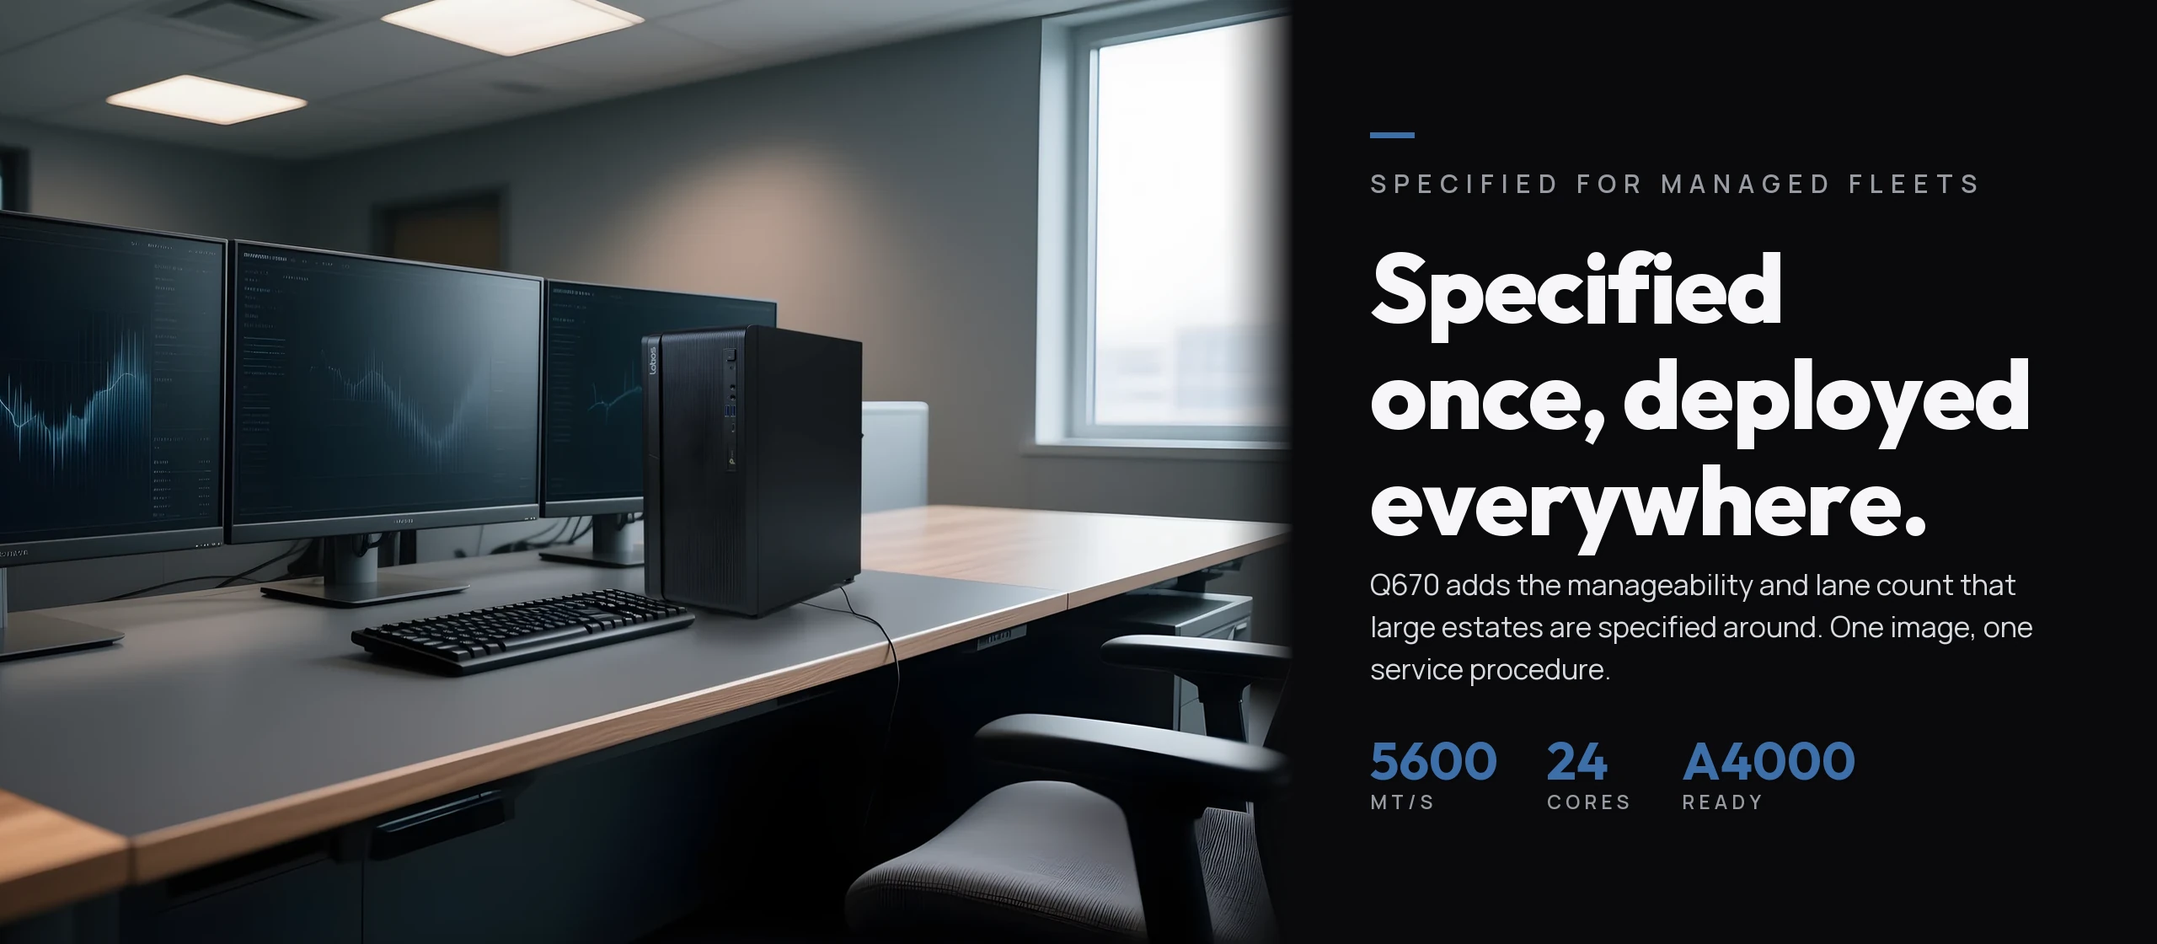
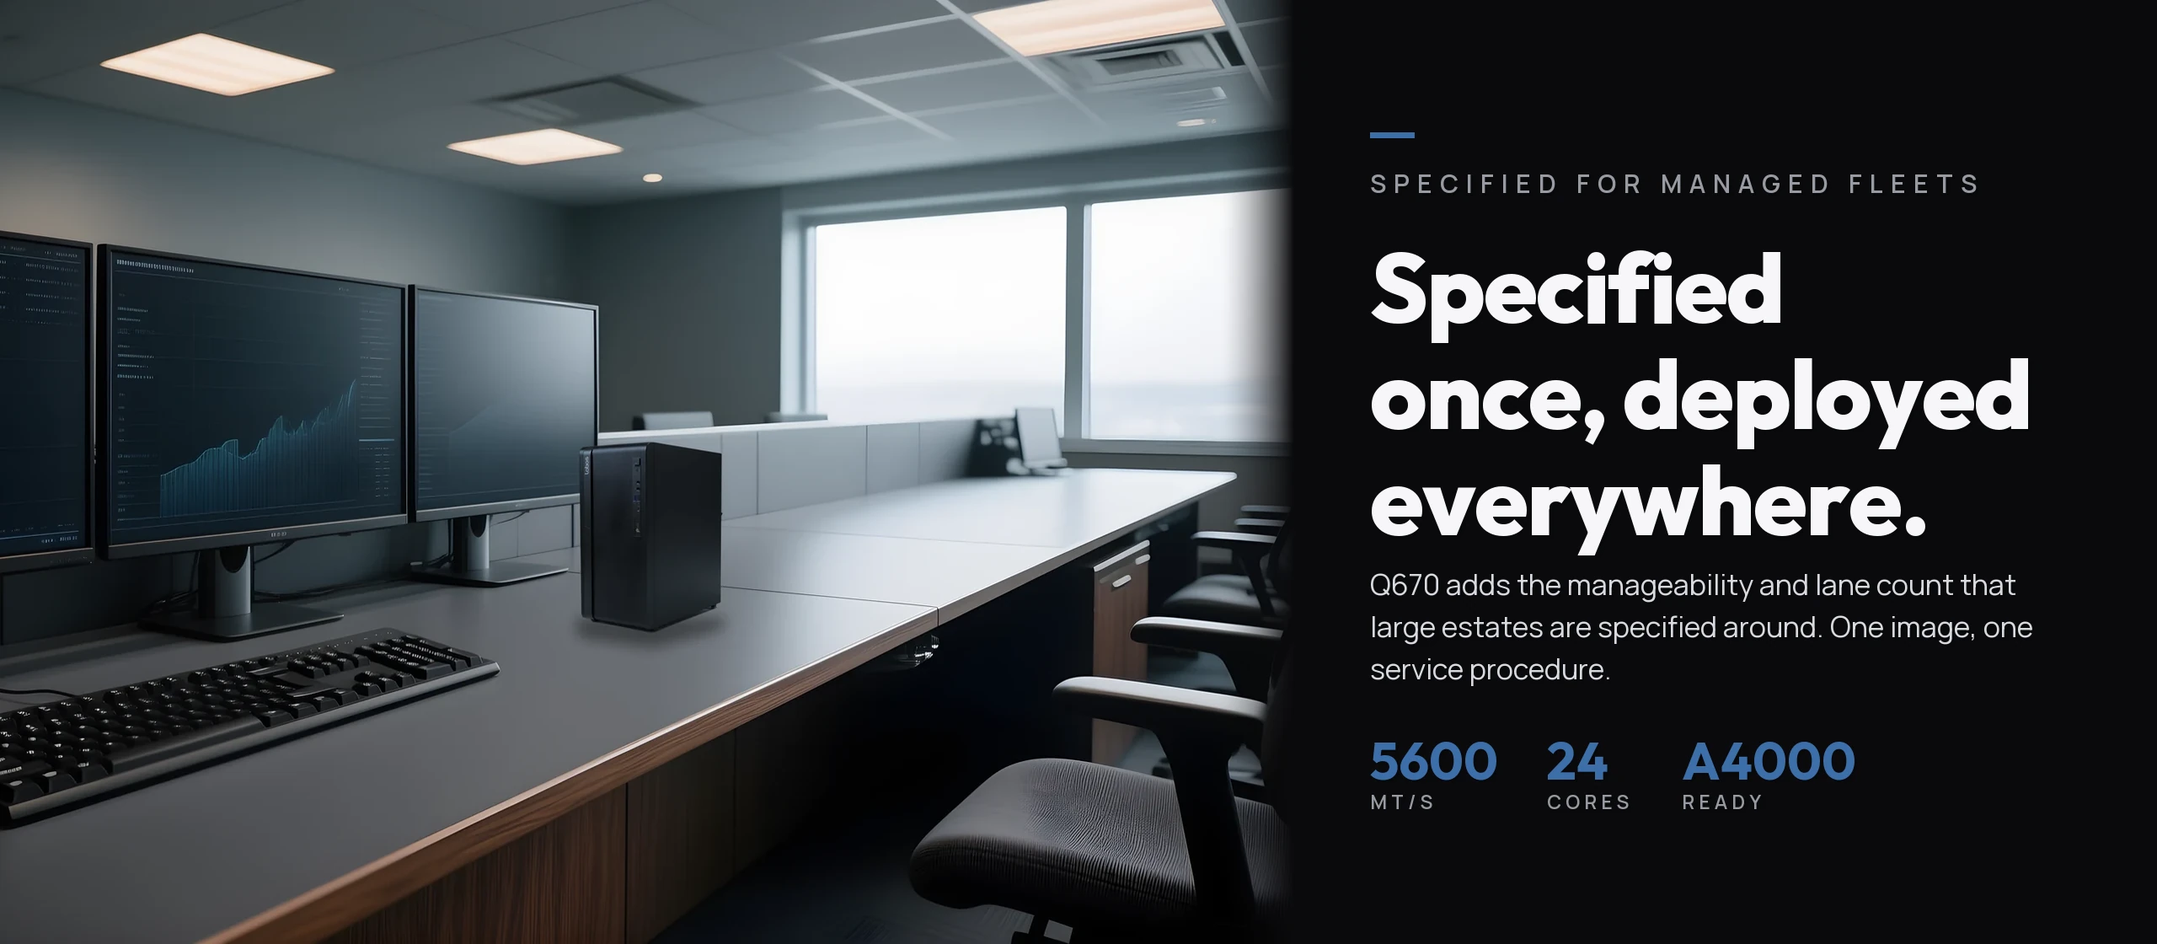
Stand the machines on the desks they were floating behind
The placement was wrong in five of six scenes and the way it was wrong was
not subtle. In mt-office -- the one reported -- the desk's right end is at
x 0.79 and the tower spans 0.749 to 0.881, so more than half of it was past
the end of the desk, standing in front of the window. A desk-region detector
returns no desk at all across its whole footprint.

The rest, measured the same way: sff-lab's base sat 99px BEHIND the bench's
far edge; mt-control's was 19px past the edge on a 351px machine, which is
to say on the horizon; mt-studio and sff-desk were at the back edge and on
top of a potted plant and a table lamp respectively. sff-reception was the
only correct one, 206px forward of the counter edge, confirmed at full size.

WHY IT WAS NEVER CAUGHT. cx/cy were set against monitor height measured in
frame. That fixes the SCALE and that number was right. Nothing checked the
DEPTH -- that the base lands on the surface. `probe` prints a 9x9 luminance
and variance map, which cannot answer that question, and it had reported
every one of these as fine. So there is now a `--check` that draws the
placement box and its base line over a grid labelled in the same fractions
cx/cy are written in; the number to change is in the same units as the
thing you are looking at.

Moving them was tried first and does not work: at full size three of the
four overhung the desk's front or far edge, because these desks are shallow
[…]

diff --git a/tools/image-processing/gen_desk_scenes.py b/tools/image-processing/gen_desk_scenes.py
@@ -63,34 +63,57 @@ STYLE = (
 )
 
 SCENES = {
+    #: v2. The first version asked for "an uncluttered stretch of bare desktop to
+    #: the right of the monitors" and the model put a coffee cup in it and ended
+    #: the desk two-thirds across the frame. Measuring the composite showed the
+    #: tower standing where there was NO DESK AT ALL -- more than half of it
+    #: past the desk's right end, in front of the window. Two changes: the desk
+    #: is told to run off the edge of the frame, so the empty area has depth
+    #: behind it, and every prop that kept landing in that area is named in the
+    #: negative. The camera also comes up off the desk a little: at eye level
+    #: with the surface there is no visible plane for a product to stand on, and
+    #: "floating" is what that looks like.
     "mt-office": (WIDE,
-        "a tidy corporate office desk seen from a low three-quarter angle: a "
-        "light oak desktop with two slim black monitors on a central stand, both "
-        "switched on showing plain abstract dark charts, a black keyboard and "
-        "mouse in front of them, a closed notebook and a pen to one side, a "
-        "ceramic cup of coffee, and an uncluttered stretch of bare desktop to the right "
-        "of the monitors. A mesh office chair is pushed back, "
-        "empty. Morning light from a window on the left. " + STYLE),
+        "a tidy corporate office desk seen from a three-quarter angle slightly "
+        "above the desk surface: a light oak desktop that runs off the right "
+        "edge of the frame, two slim black monitors on a stand at the left of "
+        "the desk, both switched on showing plain abstract dark charts, a black "
+        "keyboard and mouse in front of them, a closed notebook and a pen at the "
+        "far left, and the whole right half of the desk is bare empty wood with "
+        "nothing standing on it. A mesh office chair is pushed back, empty. "
+        "Morning light from a window on the left. " + STYLE),
 
+    #: v2, for the same reason: the potted plant and the graphics tablet took
+    #: the right of the desk and left no run of surface a tower could stand on.
     "mt-studio": (WIDE,
-        "a design studio desk seen from a low three-quarter angle: a pale birch "
-        "desktop against a white brick wall, one wide monitor switched on showing "
-        "a plain dark abstract layout, a mechanical keyboard, a graphics tablet "
-        "and stylus, a small potted plant, a stack of colour swatches, and bare floor beside the desk leg. Warm "
+        "a design studio desk seen from a three-quarter angle slightly above the "
+        "desk surface: a pale birch desktop against a white brick wall, running "
+        "off the right edge of the frame, one wide monitor at the left switched "
+        "on showing a plain dark abstract layout, a mechanical keyboard and a "
+        "stack of colour swatches in front of it, and the whole right half of "
+        "the desk is bare empty wood with nothing standing on it. Warm "
         "afternoon light. " + STYLE),
 
+    #: v2. "a bare stretch of desktop at the right end" came back with the
+    #: headset in it and the desk's front edge rising away, so a tower placed
+    #: there overhung the front of the desk however high it was put.
     "mt-control": (WIDE,
-        "a control room desk seen from a low three-quarter angle: a dark grey "
-        "desktop with three monitors in a row, all switched on showing plain "
-        "abstract dark dashboards, a black keyboard, a headset resting beside it, "
-        "and a bare stretch of desktop at the right end. Cool even ceiling "
-        "light, dim room. " + STYLE),
+        "a control room desk seen from a three-quarter angle slightly above the "
+        "desk surface: a long dark grey desktop that runs off the right edge of "
+        "the frame, three monitors in a row at the left, all switched on showing "
+        "plain abstract dark dashboards, a black keyboard in front of them, and "
+        "the whole right half of the desk is bare empty surface with nothing "
+        "standing on it. Cool even ceiling light, dim room. " + STYLE),
 
+    #: v2. The desk ended just past the lamp, so the only clear surface was the
+    #: last few percent of the frame and the machine perched on the end of it.
     "sff-desk": (WIDE,
-        "a compact home-office desk seen from a low three-quarter angle: a narrow "
-        "walnut desktop against a plain painted wall, one monitor on a slim arm "
+        "a compact home-office desk seen from a three-quarter angle slightly "
+        "above the desk surface: a deep walnut desktop against a plain painted "
+        "wall, running off the right edge of the frame, one monitor at the left "
         "switched on showing a plain dark abstract image, a low-profile keyboard "
-        "and mouse, a small lamp, and bare desktop under the monitor arm. Soft daylight. " + STYLE),
+        "and mouse in front of it, and the whole right half of the desk is bare "
+        "empty wood with nothing standing on it. Soft daylight. " + STYLE),
 
     "sff-reception": (WIDE,
         "a reception counter seen from a low three-quarter angle: a pale stone "
@@ -98,21 +121,31 @@ SCENES = {
         "screen, a keyboard, a card reader, a small tray, and a bare stretch of counter top to the left. Bright even daylight, "
         "clean minimal lobby behind, out of focus. " + STYLE),
 
+    #: v2, same correction: the bench's far edge sat exactly where the machine
+    #: went, which put the background benches directly behind it at the same
+    #: height and made it read as floating in the room.
     "sff-lab": (WIDE,
-        "a university computer lab bench seen from a low three-quarter angle: a "
-        "light laminate bench, one monitor switched on showing a plain dark "
-        "abstract screen, a keyboard and mouse, a notebook and a pen, and bare bench top beside the monitor. Even "
-        "fluorescent daylight, rows of identical benches out of focus behind. "
-        + STYLE),
+        "a university computer lab bench seen from a three-quarter angle "
+        "slightly above the bench surface: a deep light laminate bench that runs "
+        "off the right edge of the frame, one monitor at the left switched on "
+        "showing a plain dark abstract screen, a keyboard and mouse and a "
+        "notebook in front of it, and the whole right half of the bench is bare "
+        "empty laminate with nothing standing on it. Even fluorescent daylight, "
+        "rows of identical benches out of focus behind. " + STYLE),
 }
 
 #: The room must arrive EMPTY of computers. Anything the model puts on the desk
 #: in the machine's place has to be cut out again, and an invented tower wearing
 #: an invented wordmark is exactly what this pipeline exists to avoid.
+#: The props are in here by name because they are what filled the space the
+#: prompt reserved. "an uncluttered stretch of bare desktop" reads to the model
+#: as a description of a desk, not as a constraint; naming the objects it keeps
+#: reaching for is what actually clears the area.
 NEG = gc.NEG + (
     ", desktop computer, computer tower, pc case, server, mini pc, laptop, "
     "person, people, man, woman, hands, face, figure, "
     "text, lettering, words, logos, brand names, badges, stickers, watermark, "
+    "coffee cup, mug, potted plant, table lamp, graphics tablet, headphones, "
     "clutter, mess, cables everywhere, blurry, out of focus"
 )
 

diff --git a/tools/image-processing/stage_desk_scenes.py b/tools/image-processing/stage_desk_scenes.py
@@ -34,7 +34,7 @@ import sys
 from pathlib import Path
 
 import numpy as np
-from PIL import Image
+from PIL import Image, ImageDraw
 
 import brand_composite as bc
 
@@ -54,13 +54,50 @@ JOBS = {
     # so the product height is that ratio of the monitor height measured in
     # the scene. Getting this wrong is the difference between a tower on a
     # desk and a doll's-house prop.
-    "mt-office":     dict(src="fronts/mt.webp",  cx=0.815, cy=0.335, w=0.132, dim=0.88, cool=0.06),
-    "mt-studio":     dict(src="fronts/mt.webp",  cx=0.630, cy=0.345, w=0.129, dim=0.92, cool=0.04),
-    "mt-control":    dict(src="fronts/mt.webp",  cx=0.680, cy=0.500, w=0.132, dim=0.70, cool=0.14),
-    "sff-desk":      dict(src="fronts/sff.webp", cx=0.640, cy=0.515, w=0.128, dim=0.90, cool=0.05),
+    #: v2 rooms. The width changed as well as the position, and it had to: these
+    #: desks run off the right edge of the frame, so the reserved area is much
+    #: FURTHER AWAY than the spot the old numbers were measured at. Scale is
+    #: re-derived per scene from the desk's own depth -- the near-to-far
+    #: thickness of the surface at the product's column against its thickness at
+    #: the monitors, which is the ratio of the two distances -- so a machine
+    #: standing at the far end is drawn the size something at the far end is.
+    "mt-office":     dict(src="fronts/mt.webp",  cx=0.720, cy=0.295, w=0.090, dim=0.88, cool=0.06),
+    "mt-studio":     dict(src="fronts/mt.webp",  cx=0.720, cy=0.420, w=0.109, dim=0.92, cool=0.04),
+    "mt-control":    dict(src="fronts/mt.webp",  cx=0.620, cy=0.569, w=0.085, dim=0.70, cool=0.14),
+    "sff-desk":      dict(src="fronts/sff.webp", cx=0.680, cy=0.473, w=0.129, dim=0.90, cool=0.05),
+    #: sff-reception is the ONE scene not re-rendered and not moved. Measuring
+    #: it put the base 206px forward of the counter's edge and reading the
+    #: composite at full size confirmed it: the machine is on the counter with
+    #: the surface visible in front of and behind it. A working placement is not
+    #: improved by re-rolling the room it works in.
     "sff-reception": dict(src="fronts/sff.webp", cx=0.345, cy=0.600, w=0.118, dim=0.95, cool=0.03),
-    "sff-lab":       dict(src="fronts/sff.webp", cx=0.680, cy=0.470, w=0.141, dim=0.93, cool=0.04),
+    "sff-lab":       dict(src="fronts/sff.webp", cx=0.660, cy=0.495, w=0.084, dim=0.93, cool=0.04),
 }
+
+#: HOW cy IS NOW SET, and it is not by eye.
+#:
+#: The product's BASE has to land on the desk. Nothing checked that before:
+#: cx/cy were set against monitor height in frame, which fixes the SCALE
+#: correctly and says nothing about the depth. Drawing the placement box back
+#: onto the empty rooms and reading it off a labelled grid showed five of six
+#: wrong -- mt-office worst, with more than half the tower past the desk's right
+#: end at x 0.79 and standing in front of the window. A product that is not on
+#: the surface cannot be rescued by a contact shadow, because there is no
+#: contact.
+#:
+#: So, per scene, read the desk's back edge at the product's column from the
+#: grid overlay, and set
+#:
+#:     cy = base - height/2,   base = back_edge + about 0.2 * height
+#:
+#: which stands it clear of the horizon with some desk still visible behind it.
+#: desk_plane.py writes the overlay these were read from, and --check below
+#: prints the box so the numbers can be re-read rather than trusted.
+#:
+#: mt-office and mt-studio also needed the ROOM re-rendered: their desks had no
+#: clear run of surface wide enough for a tower at any depth, because the model
+#: had filled the reserved area with a cup, a plant and a tablet. See
+#: gen_desk_scenes.py, whose prompts and negative now name those props.
 
 
 def _cut(src):
@@ -113,13 +150,68 @@ def probe(name):
         print("    " + " ".join(cells))
 
 
+def check(name, out=None):
+    """Draw the placement box on the EMPTY room, with a labelled grid.
+
+    `probe` prints where the empty space is, which is how cx and the width were
+    chosen, and it is genuinely useful for that. It cannot answer the question
+    that actually decides whether the composite works -- is the product's BASE
+    on the desk -- because a 9x9 mean says nothing about where the surface ends.
+    Five of six placements were wrong on exactly that point and probe had
+    reported them all as fine.
+
+    So this draws the box and its base line over a grid labelled in the same
+    fractions cx/cy are written in. Read the desk's near and far edge at the
+    product's columns, check the base sits between them, and if it does not the
+    number to change is right there in the same units.
+
+        python stage_desk_scenes.py --check
+    """
+    p = GEN / f"{name}.png"
+    if not p.exists():
+        print(f"  skip {name:16s} (not rendered yet)")
+        return None
+    im = Image.open(p).convert("RGB")
+    im = im.resize((1100, round(im.height * 1100 / im.width)), Image.LANCZOS)
+    W, H = im.size
+    j = JOBS[name]
+    cut = _cut(j["src"])
+    w = j["w"] * W
+    h = w * cut.height / cut.width
+    cx, cy = j["cx"] * W, j["cy"] * H
+
+    d = ImageDraw.Draw(im, "RGBA")
+    for i in range(1, 20):
+        x = round(W * i / 20)
+        d.line([x, 0, x, H], fill=(255, 40, 120, 90), width=1)
+        d.text((x + 2, 4), f".{i*5:02d}", fill=(255, 220, 0))
+    for k in range(1, 20):
+        y = round(H * k / 20)
+        d.line([0, y, W, y], fill=(0, 200, 255, 90), width=1)
+        d.text((4, y + 2), f".{k*5:02d}", fill=(0, 255, 255))
+    d.rectangle([cx - w/2, cy - h/2, cx + w/2, cy + h/2], outline=(255, 40, 120), width=3)
+    d.line([0, cy + h/2, W, cy + h/2], fill=(255, 220, 0), width=2)
+    print(f"  {name:16s} box x {j['cx']-j['w']/2:.3f}..{j['cx']+j['w']/2:.3f}  "
+          f"base {(cy + h/2)/H:.3f}")
+    if out:
+        im.save(Path(out) / f"check-{name}.png")
+    return im
+
+
 if __name__ == "__main__":
     args = sys.argv[1:]
+    out = HERE
+    if "--out" in args:                      # strip before `only` is read, or
+        i = args.index("--out")              # the path is taken for a scene name
+        out = Path(args[i + 1])
+        del args[i:i + 2]
     only = [a for a in args if not a.startswith("--")]
     for name, cfg in JOBS.items():
         if only and name not in only:
             continue
         if "--probe" in args:
             probe(name)
+        elif "--check" in args:
+            check(name, out)
         else:
             stage(name, **cfg)

diff --git a/tools/image-processing/desk_plane.py b/tools/image-processing/desk_plane.py
@@ -1,0 +1,139 @@
+"""Find the desk surface in a generated room, so a machine can be stood ON it.
+
+WHY THIS EXISTS
+---------------
+stage_desk_scenes.JOBS places each chassis by cx/cy/width_frac, and its own
+docstring claims those were "measured off the render rather than assumed". The
+width was: it is the product's real height against a 24-inch monitor measured in
+frame, and that number is right. The VERTICAL position was not. Nothing ever
+checked the one thing that decides whether a composite reads as a photograph --
+that the product's BASE lands on the desk rather than behind it.
+
+Drawing the placement box back onto the empty rooms showed five of six wrong.
+In mt-office the base sits about 38px (at 2000 wide) above the desk's back edge,
+which puts the whole machine on the wall in front of the window; in sff-lab it
+straddles the far edge of the bench with the background benches visible at the
+same depth. The product hovers, and no amount of contact shadow fixes a contact
+that is not there.
+
+WHAT IT MEASURES
+----------------
+The desk is a large, fairly uniform plane. Flood from a seed known to be on it,
+keep the largest connected component, and the topmost filled pixel in each
+column is the desk's BACK EDGE at that column. That edge is the horizon of the
+surface: a machine whose base is above it is behind the desk, and one whose base
+is below it is on the desk, further forward the lower it goes.
+
+So the placement rule becomes a measurement instead of a guess:
+
+    base_y = back_edge(cx) + inset * machine_height
+
+`inset` is how far forward of the back edge the product stands, as a fraction of
+its own height, which keeps it consistent across the two chassis sizes. A little
+desk has to remain visible behind the product or it reads as pasted onto the
+edge.
+
+WHAT IT IS NOT GOOD FOR, stated because it cost an hour to find out
+------------------------------------------------------------------
+A single global colour threshold cannot hold a lit desk. These surfaces carry a
+strong light-to-shadow gradient across them, so the tolerance that reaches the
+far end of the desk has already leaked into the wall: sweeping seed and
+threshold on mt-studio and sff-desk gives either 30% coverage or a fill that
+runs to the top of the frame, with nothing usable between.
+
+So this is a DIAGNOSTIC, not the placement tool. Where it has coverage its
+answer is decisive and was worth having -- it is what proved mt-office has no
+desk at all under the machine's footprint, and that sff-lab's base sat 99px
+behind the bench's edge. Where it does not, it says nan and must not be
+believed; a nan here means "did not measure", never "no desk".
+
+The placement itself is read off `stage_desk_scenes.py --check`, which draws the
+box and its base line over a labelled grid. Slower, and right every time.
+
+    python desk_plane.py                 # draw the detected edge on every room
+    python desk_plane.py mt-office       # one of them
+"""
+import sys
+from pathlib import Path
+
+import numpy as np
+from PIL import Image, ImageDraw
+from scipy import ndimage
+
+HERE = Path(__file__).parent
+GEN = HERE / "generated" / "desk-scenes"
+WIDTH = 2000
+
+#: A point that is definitely ON the desk surface, as a fraction of the frame,
+#: plus how tolerant the fill may be. These are the only hand-set numbers here
+#: and each one is confirmed by the overlay this script writes -- a seed that
+#: lands on a keyboard or a shadow produces an obviously wrong edge.
+SEEDS = {
+    "mt-office":     dict(seed=(0.34, 0.74), thresh=52),
+    "mt-studio":     dict(seed=(0.42, 0.72), thresh=52),
+    "mt-control":    dict(seed=(0.46, 0.66), thresh=44),
+    "sff-desk":      dict(seed=(0.42, 0.72), thresh=52),
+    "sff-reception": dict(seed=(0.40, 0.64), thresh=48),
+    "sff-lab":       dict(seed=(0.42, 0.74), thresh=52),
+}
+
+
+def surface(name):
+    """Return (edge_y_per_column, room_image) at WIDTH, edge NaN where no desk."""
+    room = Image.open(GEN / f"{name}.png").convert("RGB")
+    room = room.resize((WIDTH, round(room.height * WIDTH / room.width)), Image.LANCZOS)
+    a = np.asarray(room, float)
+    cfg = SEEDS[name]
+    sx, sy = int(cfg["seed"][0] * WIDTH), int(cfg["seed"][1] * room.height)
+
+    ref = a[sy, sx]
+    near = np.sqrt(((a - ref) ** 2).sum(2)) < cfg["thresh"]
+    lab, n = ndimage.label(near)
+    if not n or not lab[sy, sx]:
+        raise SystemExit(f"{name}: seed at ({sx},{sy}) is not on a region")
+    mask = ndimage.binary_closing(lab == lab[sy, sx], np.ones((9, 9)))
+
+    edge = np.full(WIDTH, np.nan)
+    for x in range(WIDTH):
+        col = np.flatnonzero(mask[:, x])
+        if col.size > room.height * 0.02:        # ignore a few stray pixels
+            edge[x] = col[0]
+    return edge, room
+
+
+def draw(name):
+    edge, room = surface(name)
+    d = ImageDraw.Draw(room)
+    pts = [(x, edge[x]) for x in range(WIDTH) if not np.isnan(edge[x])]
+    for x, y in pts:
+        d.point((x, y), fill=(255, 40, 120))
+    d.point((int(SEEDS[name]["seed"][0] * WIDTH),
+             int(SEEDS[name]["seed"][1] * room.height)), fill=(0, 255, 0))
+    cov = len(pts) / WIDTH
+    return room, cov
+
+
+if __name__ == "__main__":
+    args = sys.argv[1:]
+    out = HERE
+    if "--out" in args:
+        i = args.index("--out")
+        out = Path(args[i + 1])
+        del args[i:i + 2]
+    only = [a for a in args if not a.startswith("--")]
+    tiles = []
+    for name in SEEDS:
+        if only and name not in only:
+            continue
+        room, cov = draw(name)
+        print(f"  {name:16s} desk edge found on {cov*100:5.1f}% of columns")
+        tiles.append((name, room.resize((760, round(760 * room.height / WIDTH)))))
+    tw, th = tiles[0][1].size
+    sheet = Image.new("RGB", (tw * 2 + 8, (th + 22) * ((len(tiles) + 1) // 2)), (18, 18, 20))
+    dd = ImageDraw.Draw(sheet)
+    for i, (n, im) in enumerate(tiles):
+        x, y = (i % 2) * (tw + 8), (i // 2) * (th + 22)
+        sheet.paste(im, (x, y))
+        dd.text((x + 4, y + th + 5), n, fill=(255, 220, 0))
+    sheet.save(out / "desk-plane.png")
+    print(f"  -> {out / 'desk-plane.png'}")
